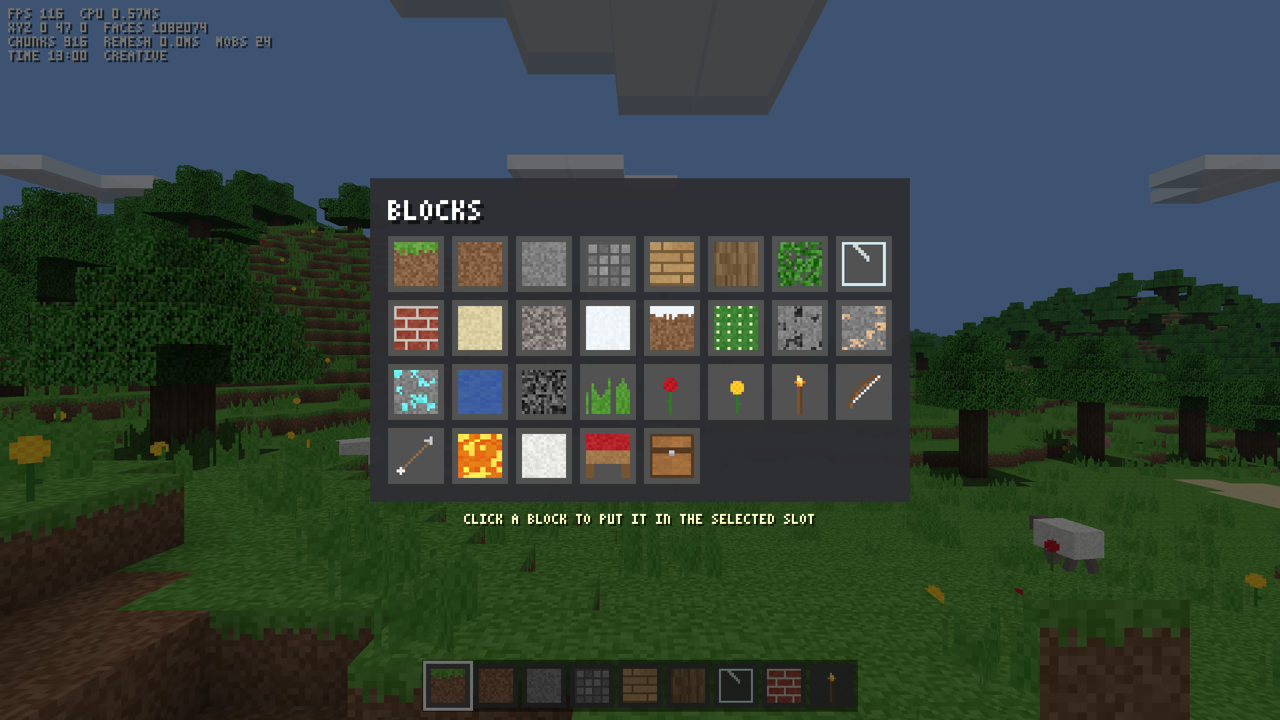
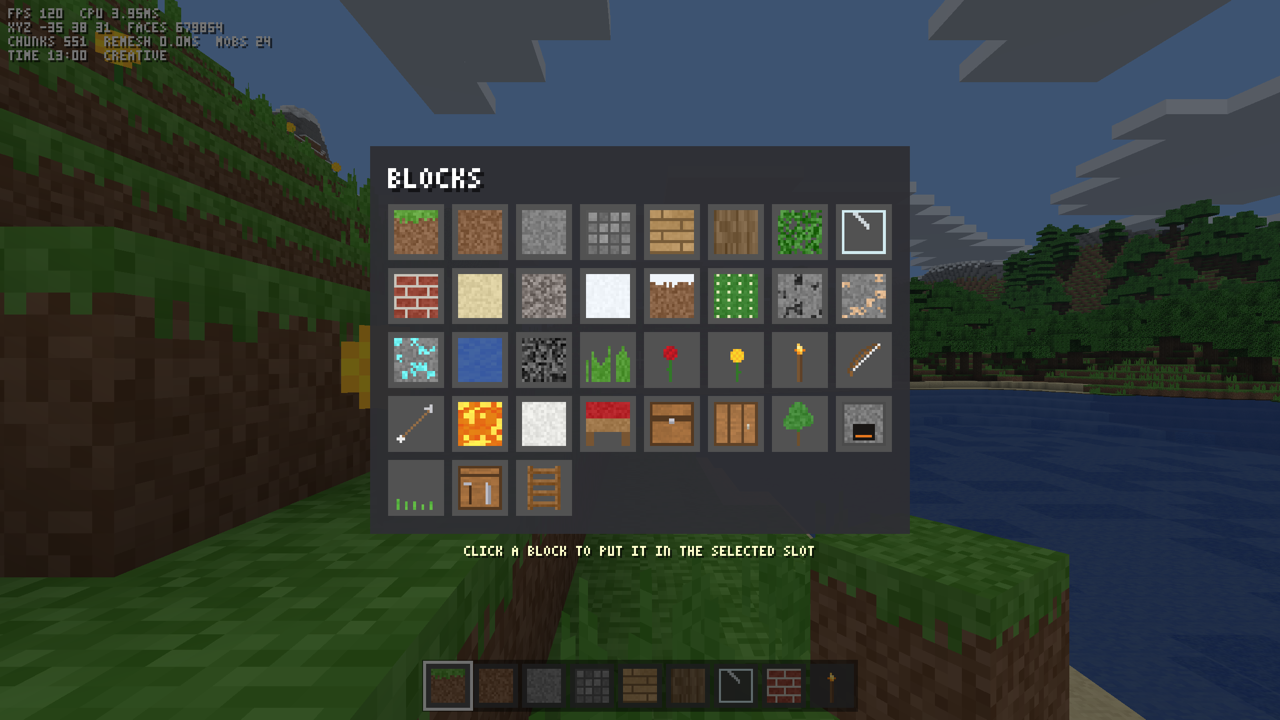
Render the README screenshots of the new terrain
The landscape, far, sunset, mobs and inventory screenshots showed the
old terrain.

Now tools/gallery.sh renders them from the new terrain, and the
captions of the landscape and sunset screenshots describe what they
show. The cave screenshot stays, because the window lost focus in each
new render and the pause screen covered the cave.

diff --git a/README.md b/README.md
@@ -2,13 +2,13 @@
 
 A small Minecraft-like game written in Ruby. The Spinel compiler turns the Ruby into a native executable, and SDL3 GPU (Metal on macOS) draws it. All game logic is Ruby. The only C is a thin layer in `game/gfx.rb` that passes data to SDL.
 
-![Hills, forests and a lake at the default 1600-block view](screenshots/landscape.png)
+![Forested hills, snow and the sea at the default 1600-block view](screenshots/landscape.png)
 
 ## Screenshots
 
 | | |
 | --- | --- |
-| ![A sunset over a desert hill and a river](screenshots/sunset.png) | ![A zombie, a skeleton and a creeper on a stone floor](screenshots/mobs.png) |
+| ![A sunset over a river and green hills](screenshots/sunset.png) | ![A zombie, a skeleton and a creeper on a stone floor](screenshots/mobs.png) |
 | ![A cave lit by lava](screenshots/cave.png) | ![The creative block picker](screenshots/inventory.png) |
 
 ![The world from 400 blocks up with a 5000-block view](screenshots/far.png)
